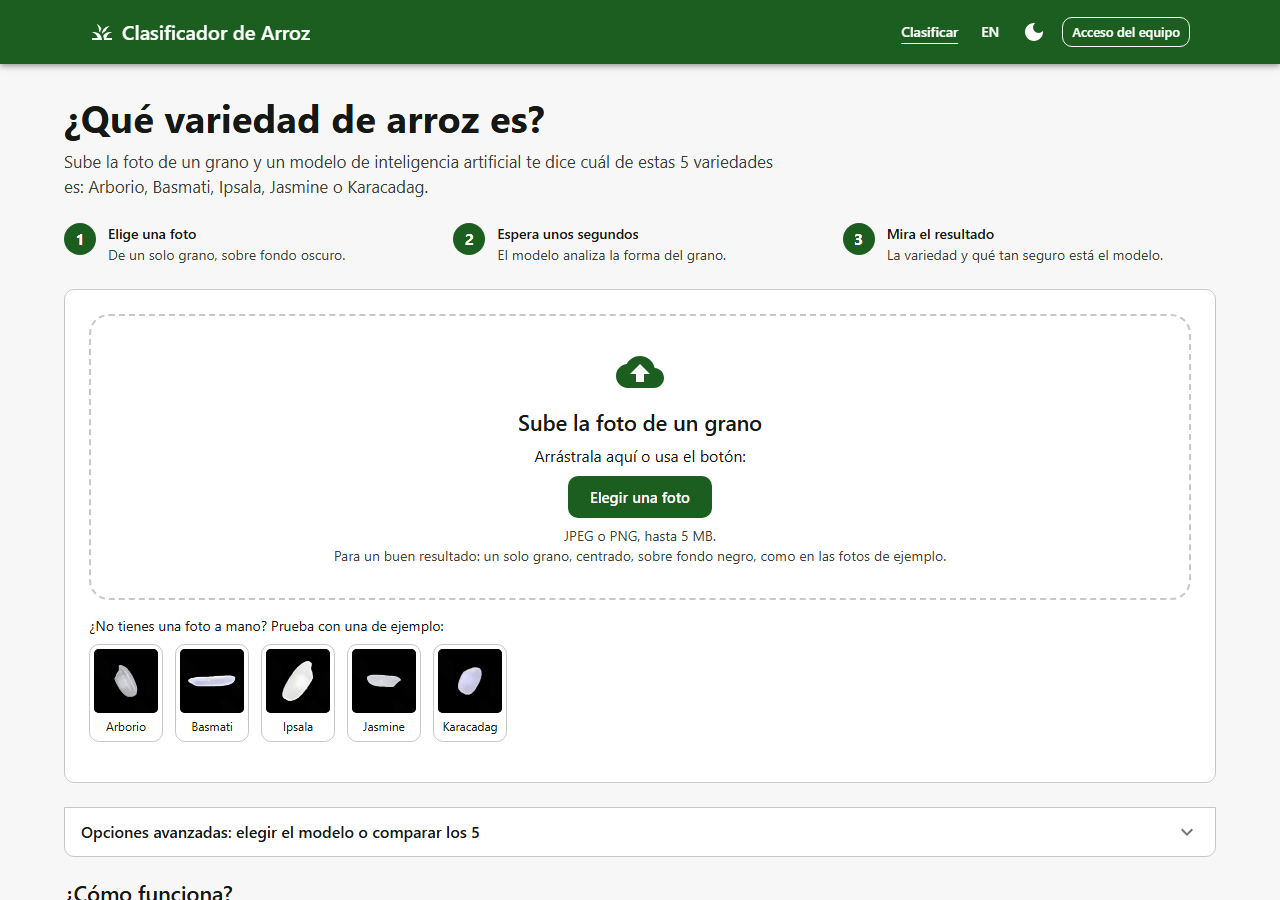
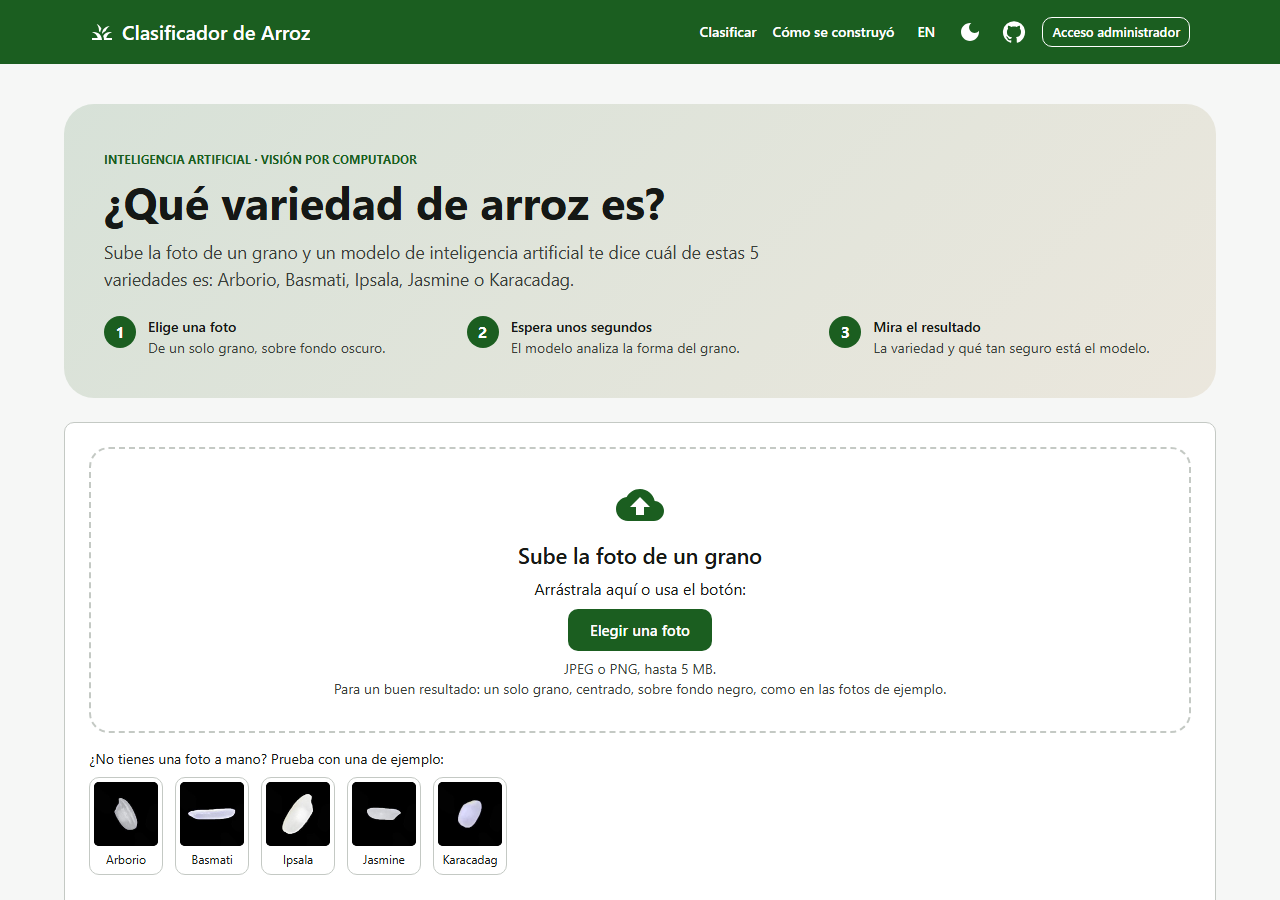
docs: README corto y específico para la entrega de IA, con capturas del diseño nuevo

diff --git a/README.md b/README.md
@@ -1,140 +1,94 @@
 <!--
 Nombre: README.md
-Descripción: Presentación del proyecto, arquitectura y cómo ejecutar, probar y desplegar.
+Descripción: Qué hace el proyecto, qué hay en cada notebook, resultados, arquitectura,
+             tecnologías y cómo ejecutarlo.
 Fecha de creación: 2026-10-18
-Última actualización: 2026-10-21
+Última actualización: 2026-11-26
 Autores: Julian Delgado (@JulianDM22), Cesar Camilo Hoyos Diaz (@Camilo1408)
-Versión: 1.2.0
+Versión: 2.0.0
 -->
 
 # Clasificador de variedades de arroz
 
-**Aplicación en línea:** https://arroz-frontend.onrender.com (plan gratuito: la primera visita
-puede tardar cerca de un minuto mientras los servicios despiertan).
+Proyecto de **Inteligencia Artificial**: modelos de visión por computador que reconocen 5 variedades
+de arroz (Arborio, Basmati, Ipsala, Jasmine, Karacadag) a partir de la foto de un grano, entrenados
+con el [Rice Image Dataset](https://www.muratkoklu.com/datasets/) (75.000 fotos).
 
-Proyecto de la materia **Inteligencia Artificial**. Clasifica fotos de granos en 5 variedades
-(Arborio, Basmati, Ipsala, Jasmine, Karacadag) con modelos entrenados sobre el
-[Rice Image Dataset](https://www.muratkoklu.com/datasets/) (75.000 imágenes).
+**Aplicación:** https://arroz-frontend.onrender.com. Plan gratuito: la primera visita puede tardar
+cerca de un minuto mientras el servidor despierta.
 
-**Cómo se usa la página:**
-- **Cualquier persona**, sin cuenta, entra, sube la foto de un grano (o prueba con una de las
-  fotos de ejemplo) y ve la variedad, qué tan seguro está el modelo y una descripción de la
-  variedad. En las opciones avanzadas puede elegir el modelo o comparar los 5.
-- **El equipo** entra por "Acceso del equipo" al inventario de lotes de arroz:
-  - el **operario** registra y edita lotes, y puede guardar como lote lo que acaba de clasificar;
-  - el **administrador** además activa o desactiva lotes, los elimina y tiene un **panel** con
-    las estadísticas del inventario y del uso del clasificador.
+![Página principal](docs/imagenes/pagina_publica.png)
 
-![Página pública](docs/imagenes/pagina_publica.png)
+## Notebooks (Kaggle, Keras)
 
-![Resultado de una foto de ejemplo](docs/imagenes/resultado_clasificacion.png)
+| Notebook | Tema | Qué hace |
+|---|---|---|
+| `01_preparacion_datos` | 1 | Quita 297 duplicados, partición estratificada 70/15/15 sin fuga, CSV reproducibles, generador por lotes |
+| `02_hyperband` | 2 | Busca modelo, tasa de aprendizaje, lote, dropout y épocas con Hyperband |
+| `03_validacion_cruzada` | 3 | K-fold estratificado con los 5 modelos; compara k-fold, hold-out y Monte Carlo |
+| `04_entrenamiento_final` | 4 y 6 | Entrena los 5 modelos con todos los datos, evalúa en test y mide 1 frente a 2 GPU |
+| `05_ensambles` | 5 | Ensambles homogéneo, heterogéneo e híbrido, con prueba de McNemar |
+| `06_gan` | 1 | GAN condicional que genera granos por variedad y prueba si sirven para aumentar datos |
+| `07_federado` | 6 | FedAvg con 5 clientes, casos IID y no IID |
+| `08_exportar_modelos` | — | Exporta los 5 modelos a TensorFlow Lite y los verifica contra el original |
+
+Las salidas de cada notebook están en su versión guardada en Kaggle; los archivos de este
+repositorio no las incluyen.
+
+## Resultados en test (11.206 fotos que los modelos no vieron)
+
+| Modelo | Tipo | Test | Validación cruzada (k = 5) |
+|---|---|---|---|
+| **ResNet50V2** (por defecto en la app) | CNN | **99,91 %** | 99,78 % ± 0,22 |
+| EfficientNetB0 | CNN | 99,87 % | 90,83 % ± 10,79 |
+| ViT-B/16 | Transformer | 99,80 % | 99,56 % ± 0,49 |
+| DeiT-S | Transformer | 99,56 % | 98,53 % ± 0,72 |
+| CNN propia | CNN | 99,08 % | 91,21 % ± 8,97 |
+
+El mejor ensamble (heterogéneo) llega a 99,93 %, pero según McNemar la mejora no es significativa
+(p = 0,5). Las cifras son altas porque el dataset es de laboratorio: un grano centrado sobre fondo
+negro uniforme. Con fotos tomadas con celular se espera menos exactitud.
 
 ## Arquitectura
 
 ```
-React + Material UI ──JSON──► Spring Boot (API REST, JWT) ──► PostgreSQL
-    (frontend/)                    (backend/)          (lotes, usuarios y registro de clasificaciones)
-                                       │ foto (multipart, clave X-API-Key)
-                                       ▼
-                     FastAPI + los 5 modelos en TensorFlow Lite
-                                  (inferencia/)
+Navegador ── React (frontend/) ──► API Spring Boot (backend/) ──► PostgreSQL
+                                          │                         (usuarios y registro de clasificaciones)
+                                          │ foto + clave X-API-Key
+                                          ▼
+                              FastAPI + 5 modelos TensorFlow Lite (inferencia/)
 ```
 
-| Carpeta | Contenido |
-|---|---|
-| `notebooks/` | Temas 1 a 6 de IA (Kaggle): preparación de datos, Hyperband, validación cruzada, 5 modelos (3 CNN y 2 transformers), ensambles, GAN, aprendizaje federado y distribuido, exportación del modelo |
-| `backend/` | API REST: clasificación pública con límite por IP, CRUD de lotes, roles, estadísticas, autenticación JWT, i18n, OpenAPI, Flyway |
-| `inferencia/` | Servicio que clasifica la foto con los 5 modelos y el ensamble |
-| `frontend/` | Interfaz web: página pública de clasificación, inventario de lotes, panel del administrador, temas, i18n, accesibilidad |
-| `pruebas/carga/` | Pruebas de carga, estrés y pico con k6 |
-| `db/` | Scripts de creación e inicialización de la base de datos |
-| `monitoreo/` | Prometheus, alertas y tablero de Grafana |
-| `scripts/` | Gestión del repositorio, compilación y pruebas, listado de casos de prueba |
-| `docs/` | Criterios de aceptación, casos de prueba, métricas y despliegue |
+- **Página pública:** clasificar una foto, comparar los 5 modelos y ver cómo se construyó el proyecto.
+- **Panel del administrador:** clasificaciones por día, por variedad y por modelo.
 
-## Resultados del modelo
+## Tecnologías y por qué
 
-| Modelo | Validación cruzada (k = 5) | Test |
+| Parte | Tecnología | Por qué |
 |---|---|---|
-| **ResNet50V2** (el de la web) | **99,78 % ± 0,22** | **99,91 %** |
-| ViT-B/16 | 99,56 % ± 0,49 | 99,80 % |
-| EfficientNetB0 | 90,83 % ± 10,79 | 99,87 % |
-| DeiT-S | 98,53 % ± 0,72 | 99,56 % |
-| CNN propia | 91,21 % ± 8,97 | 99,08 % |
+| Entrenamiento | Kaggle Notebooks (2 GPU T4) | El dataset ya está en Kaggle y las 2 GPU permiten el tema 6 |
+| Modelos | Keras 3 / TensorFlow, KerasTuner, keras-hub | Una sola librería para los 6 temas y los 5 modelos preentrenados |
+| Servir modelos | TensorFlow Lite (LiteRT) + FastAPI | Liviano: los 5 modelos caben en 512 MB (283 MB en uso) |
+| API | Spring Boot + PostgreSQL | Registro de clasificaciones, acceso del administrador y límite de 20 fotos por minuto por IP |
+| Interfaz | React + Material UI | Español e inglés, tema claro y oscuro, accesible y adaptable a celular |
+| Calidad y despliegue | Docker, GitHub Actions, Render | Cada cambio se prueba y, si todo pasa, se publica solo |
 
-Los ensambles (homogéneo, heterogéneo e híbrido) llegan a 99,93 %, pero la mejora frente a
-ResNet50V2 solo no es significativa (prueba de McNemar).
-
-En la aplicación están los **5 modelos**: por defecto se usa ResNet50V2, el más preciso, y en las
-opciones avanzadas se puede elegir otro, usar los 5 juntos (ensamble) o **comparar los 5** con la
-misma foto para ver la predicción, la confianza y el tiempo de cada uno, junto con sus métricas
-de test.
-
-![Comparación de los 5 modelos con una foto de test de Jasmine](docs/imagenes/comparacion_modelos.png)
-
-Los modelos van en TensorFlow Lite (notebook 08). Cada uno se verificó contra su original en
-500 fotos de test: coinciden en el 100 % de las predicciones.
-
-| Modelo | Formato | Tamaño | Tiempo por foto (CPU, contenedor) |
-|---|---|---|---|
-| CNN propia | float16 | 0,8 MB | ~28 ms |
-| EfficientNetB0 | float16 | 8,1 MB | ~26 ms |
-| ResNet50V2 | int8 | 24,1 MB | ~145 ms |
-| ViT-B/16 | int8 | 87,8 MB | ~670–740 ms |
-| DeiT-S | int8 | 22,8 MB | ~190–280 ms |
-
-Los 3 modelos grandes van en int8 para que el servicio quepa en los 512 MB del plan gratuito:
-con los 5 cargados usa ~283 MB (con float16 llegaba a ~500 MB).
-
-## Ejecutar
+## Ejecutar en local
 
 ```bash
 docker compose up -d --build --wait
 ```
 
-Abrir http://localhost:8081. Para el área del equipo ("Acceso del equipo"), los usuarios de
-desarrollo son `admin` / `Admin123*` y `operario` / `Operario123*` (en producción se usan otras
-contraseñas, definidas en Render).
-Documentación de la API: http://localhost:8080/swagger-ui.html.
+Abrir http://localhost:8081. Usuario administrador de desarrollo: `admin` / `Admin123*` (en
+producción la contraseña es otra). Fotos de prueba: `inferencia/tests/muestras/`.
 
-## Probar
+## Dataset
 
-```powershell
-.\scripts\compilar_y_probar.ps1            # back-end, mutación, inferencia y front-end
-.\scripts\compilar_y_probar.ps1 -Sistema   # además Playwright, Selenium y k6 sobre docker compose
-```
-
-La lista completa de casos de prueba y su relación con los criterios de aceptación está en
-[`docs/casos_de_prueba.md`](docs/casos_de_prueba.md); se regenera con
-`python scripts/listar_casos_prueba.py`.
-
-## Documentación
-
-- [Criterios de aceptación](docs/criterios_aceptacion.md)
-- [Casos de prueba y trazabilidad](docs/casos_de_prueba.md)
-- [Métricas, desempeño del equipo y monitoreo](docs/metricas.md)
-- [Despliegue](docs/despliegue.md)
-- JavaDoc: `cd backend && mvn javadoc:javadoc` → `backend/target/reports/apidocs`
-- JSDoc: `cd frontend && npm run docs` → `frontend/docs-js`
-
-## Dataset y cita
-
-Se usa el **Rice Image Dataset** de Murat Koklu (https://www.muratkoklu.com/datasets/), publicado
-también en Kaggle. Las imágenes no se incluyen en este repositorio. Los autores piden citar:
-
-- Koklu, M., Cinar, I., & Taspinar, Y. S. (2021). Classification of rice varieties with deep
-  learning methods. *Computers and Electronics in Agriculture, 187*, 106285.
-  https://doi.org/10.1016/j.compag.2021.106285
-- Cinar, I., & Koklu, M. (2021). Determination of Effective and Specific Physical Features of Rice
-  Varieties by Computer Vision In Exterior Quality Inspection. *Selcuk Journal of Agriculture and
-  Food Sciences, 35*(3), 229–243. https://doi.org/10.15316/SJAFS.2021.252
-- Cinar, I., & Koklu, M. (2022). Identification of Rice Varieties Using Machine Learning
-  Algorithms. *Journal of Agricultural Sciences*. https://doi.org/10.15832/ankutbd.862482
-- Cinar, I., & Koklu, M. (2019). Classification of Rice Varieties Using Artificial Intelligence
-  Methods. *International Journal of Intelligent Systems and Applications in Engineering, 7*(3),
-  188–194. https://doi.org/10.18201/ijisae.2019355381
+Koklu, M., Cinar, I., & Taspinar, Y. S. (2021). Classification of rice varieties with deep learning
+methods. *Computers and Electronics in Agriculture, 187*, 106285.
+https://doi.org/10.1016/j.compag.2021.106285. Las imágenes no se incluyen en este repositorio.
 
 ## Equipo
 
-- Julian Delgado ([@JulianDM22](https://github.com/JulianDM22))
-- Camilo ([@Camilo1408](https://github.com/Camilo1408))
+Julian Delgado ([@JulianDM22](https://github.com/JulianDM22)) y Cesar Camilo Hoyos Diaz
+([@Camilo1408](https://github.com/Camilo1408)).
